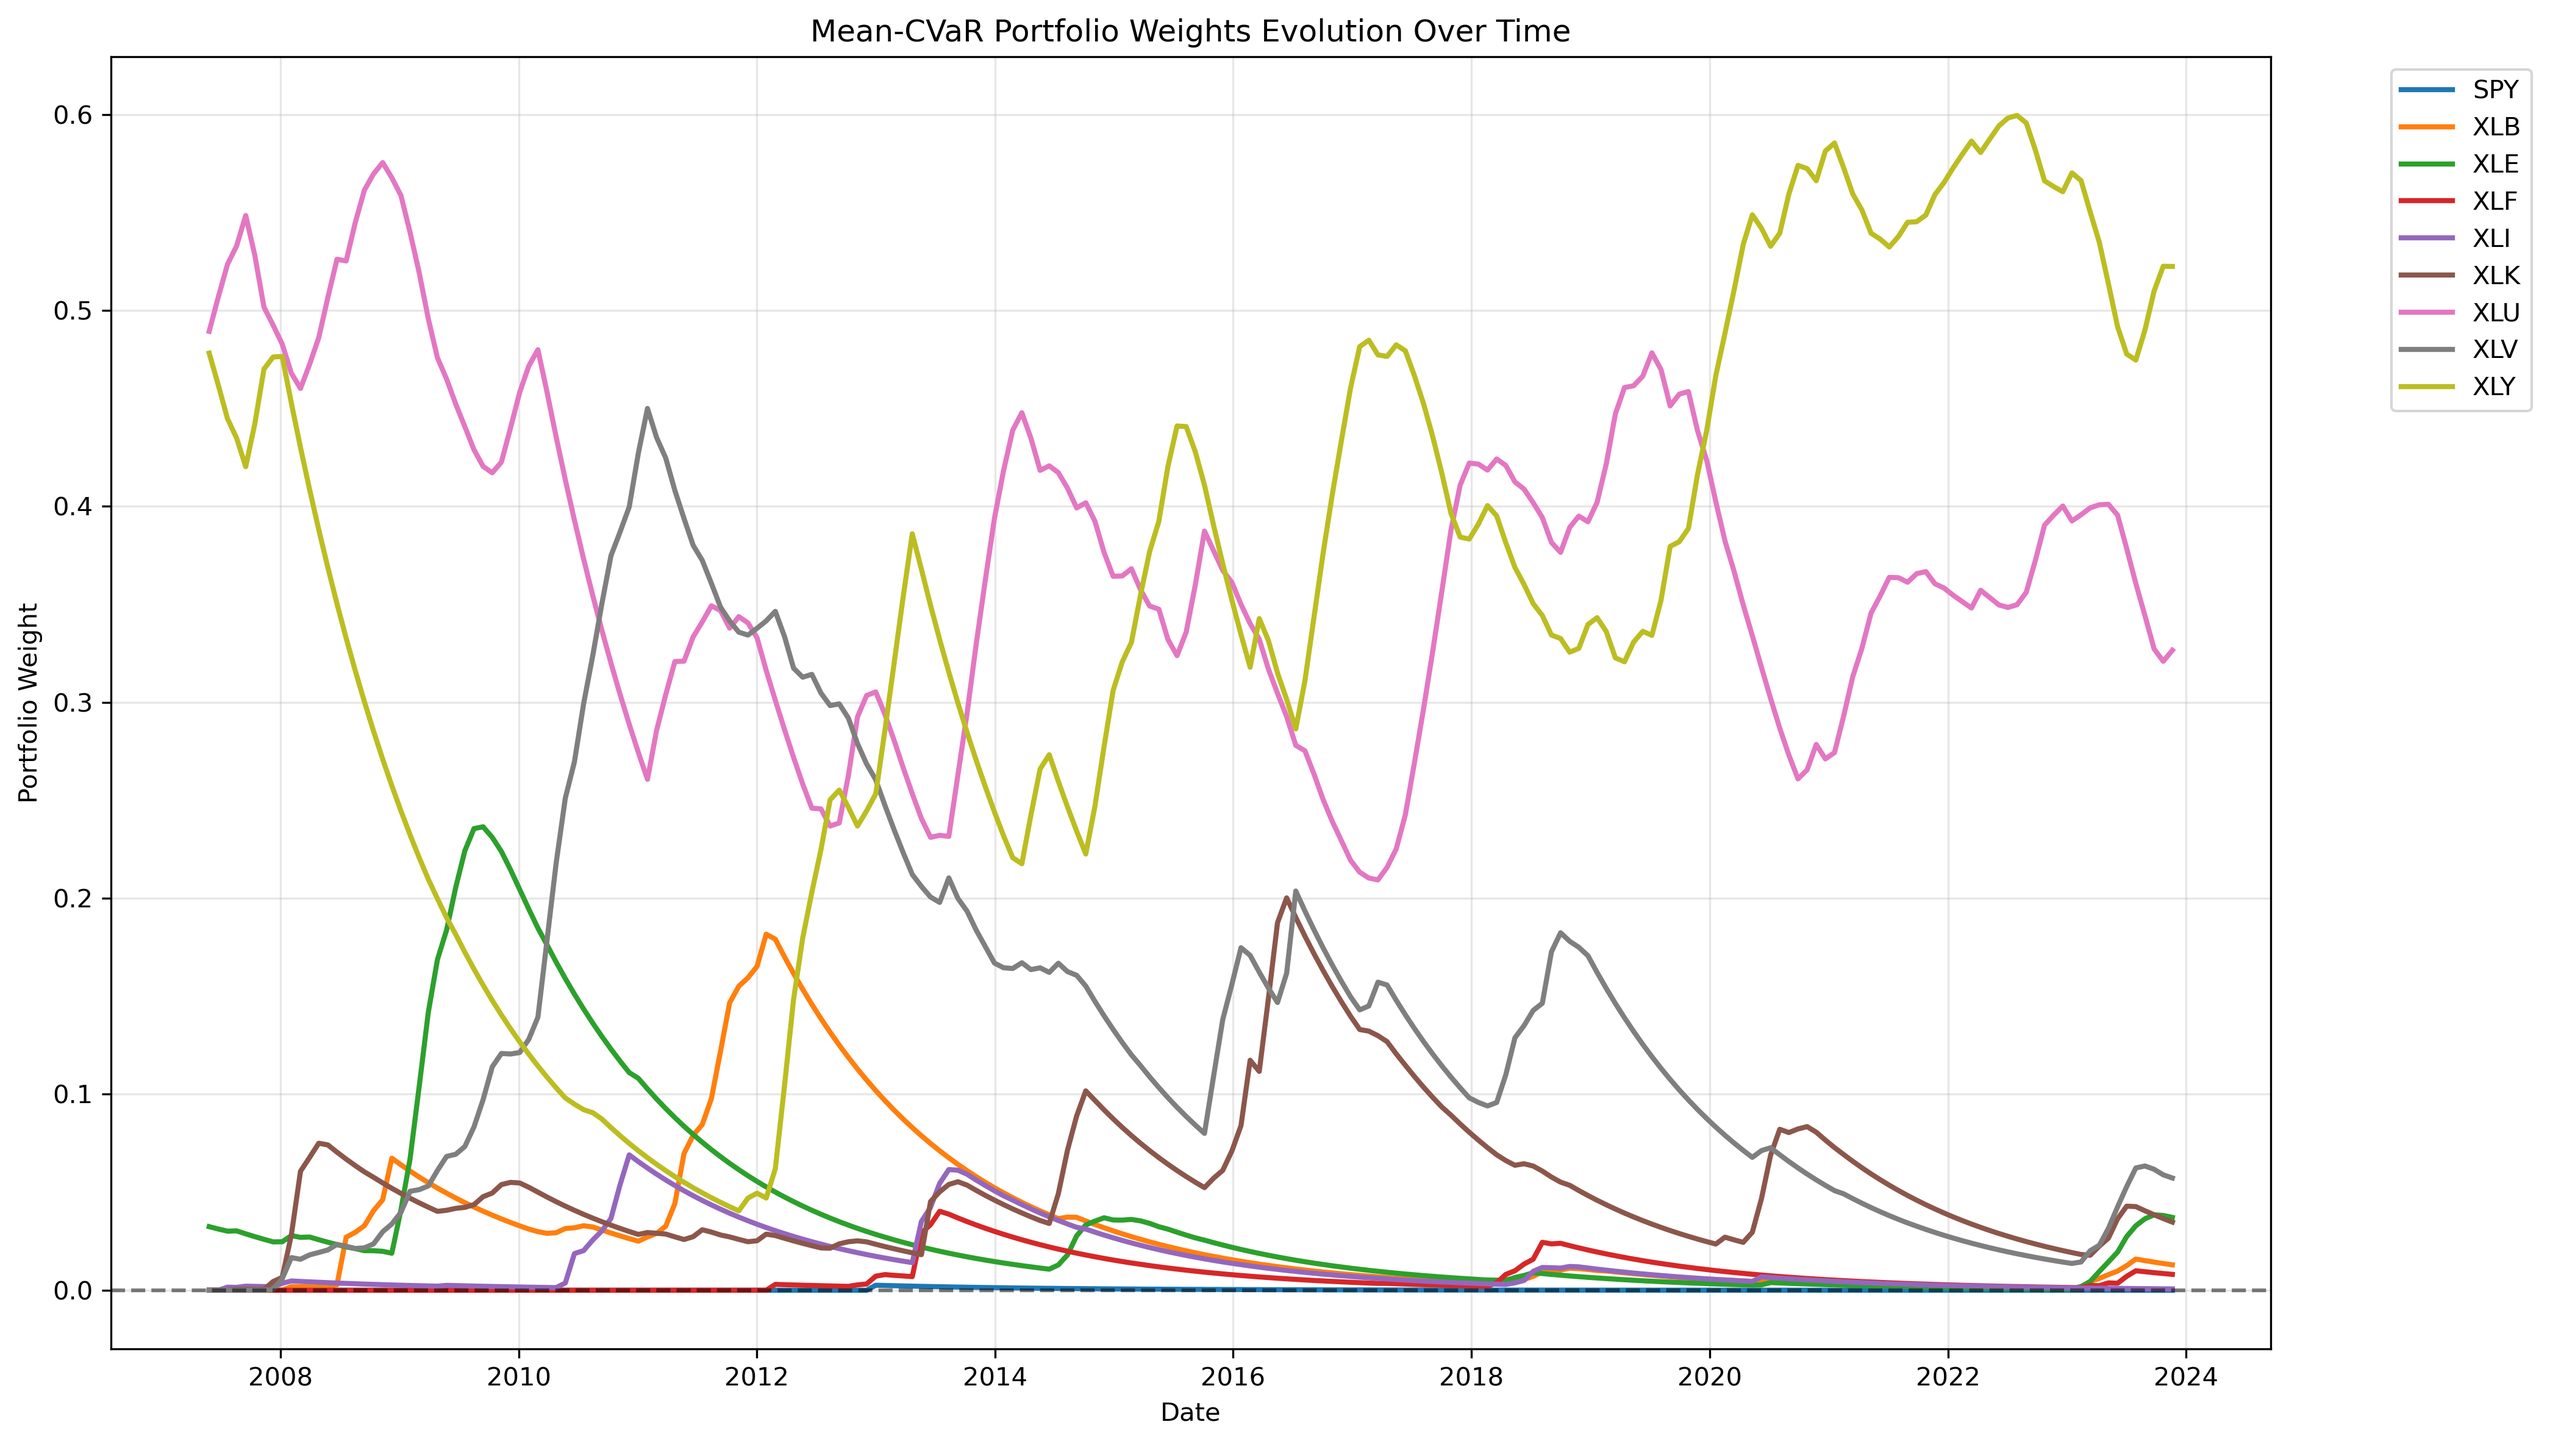
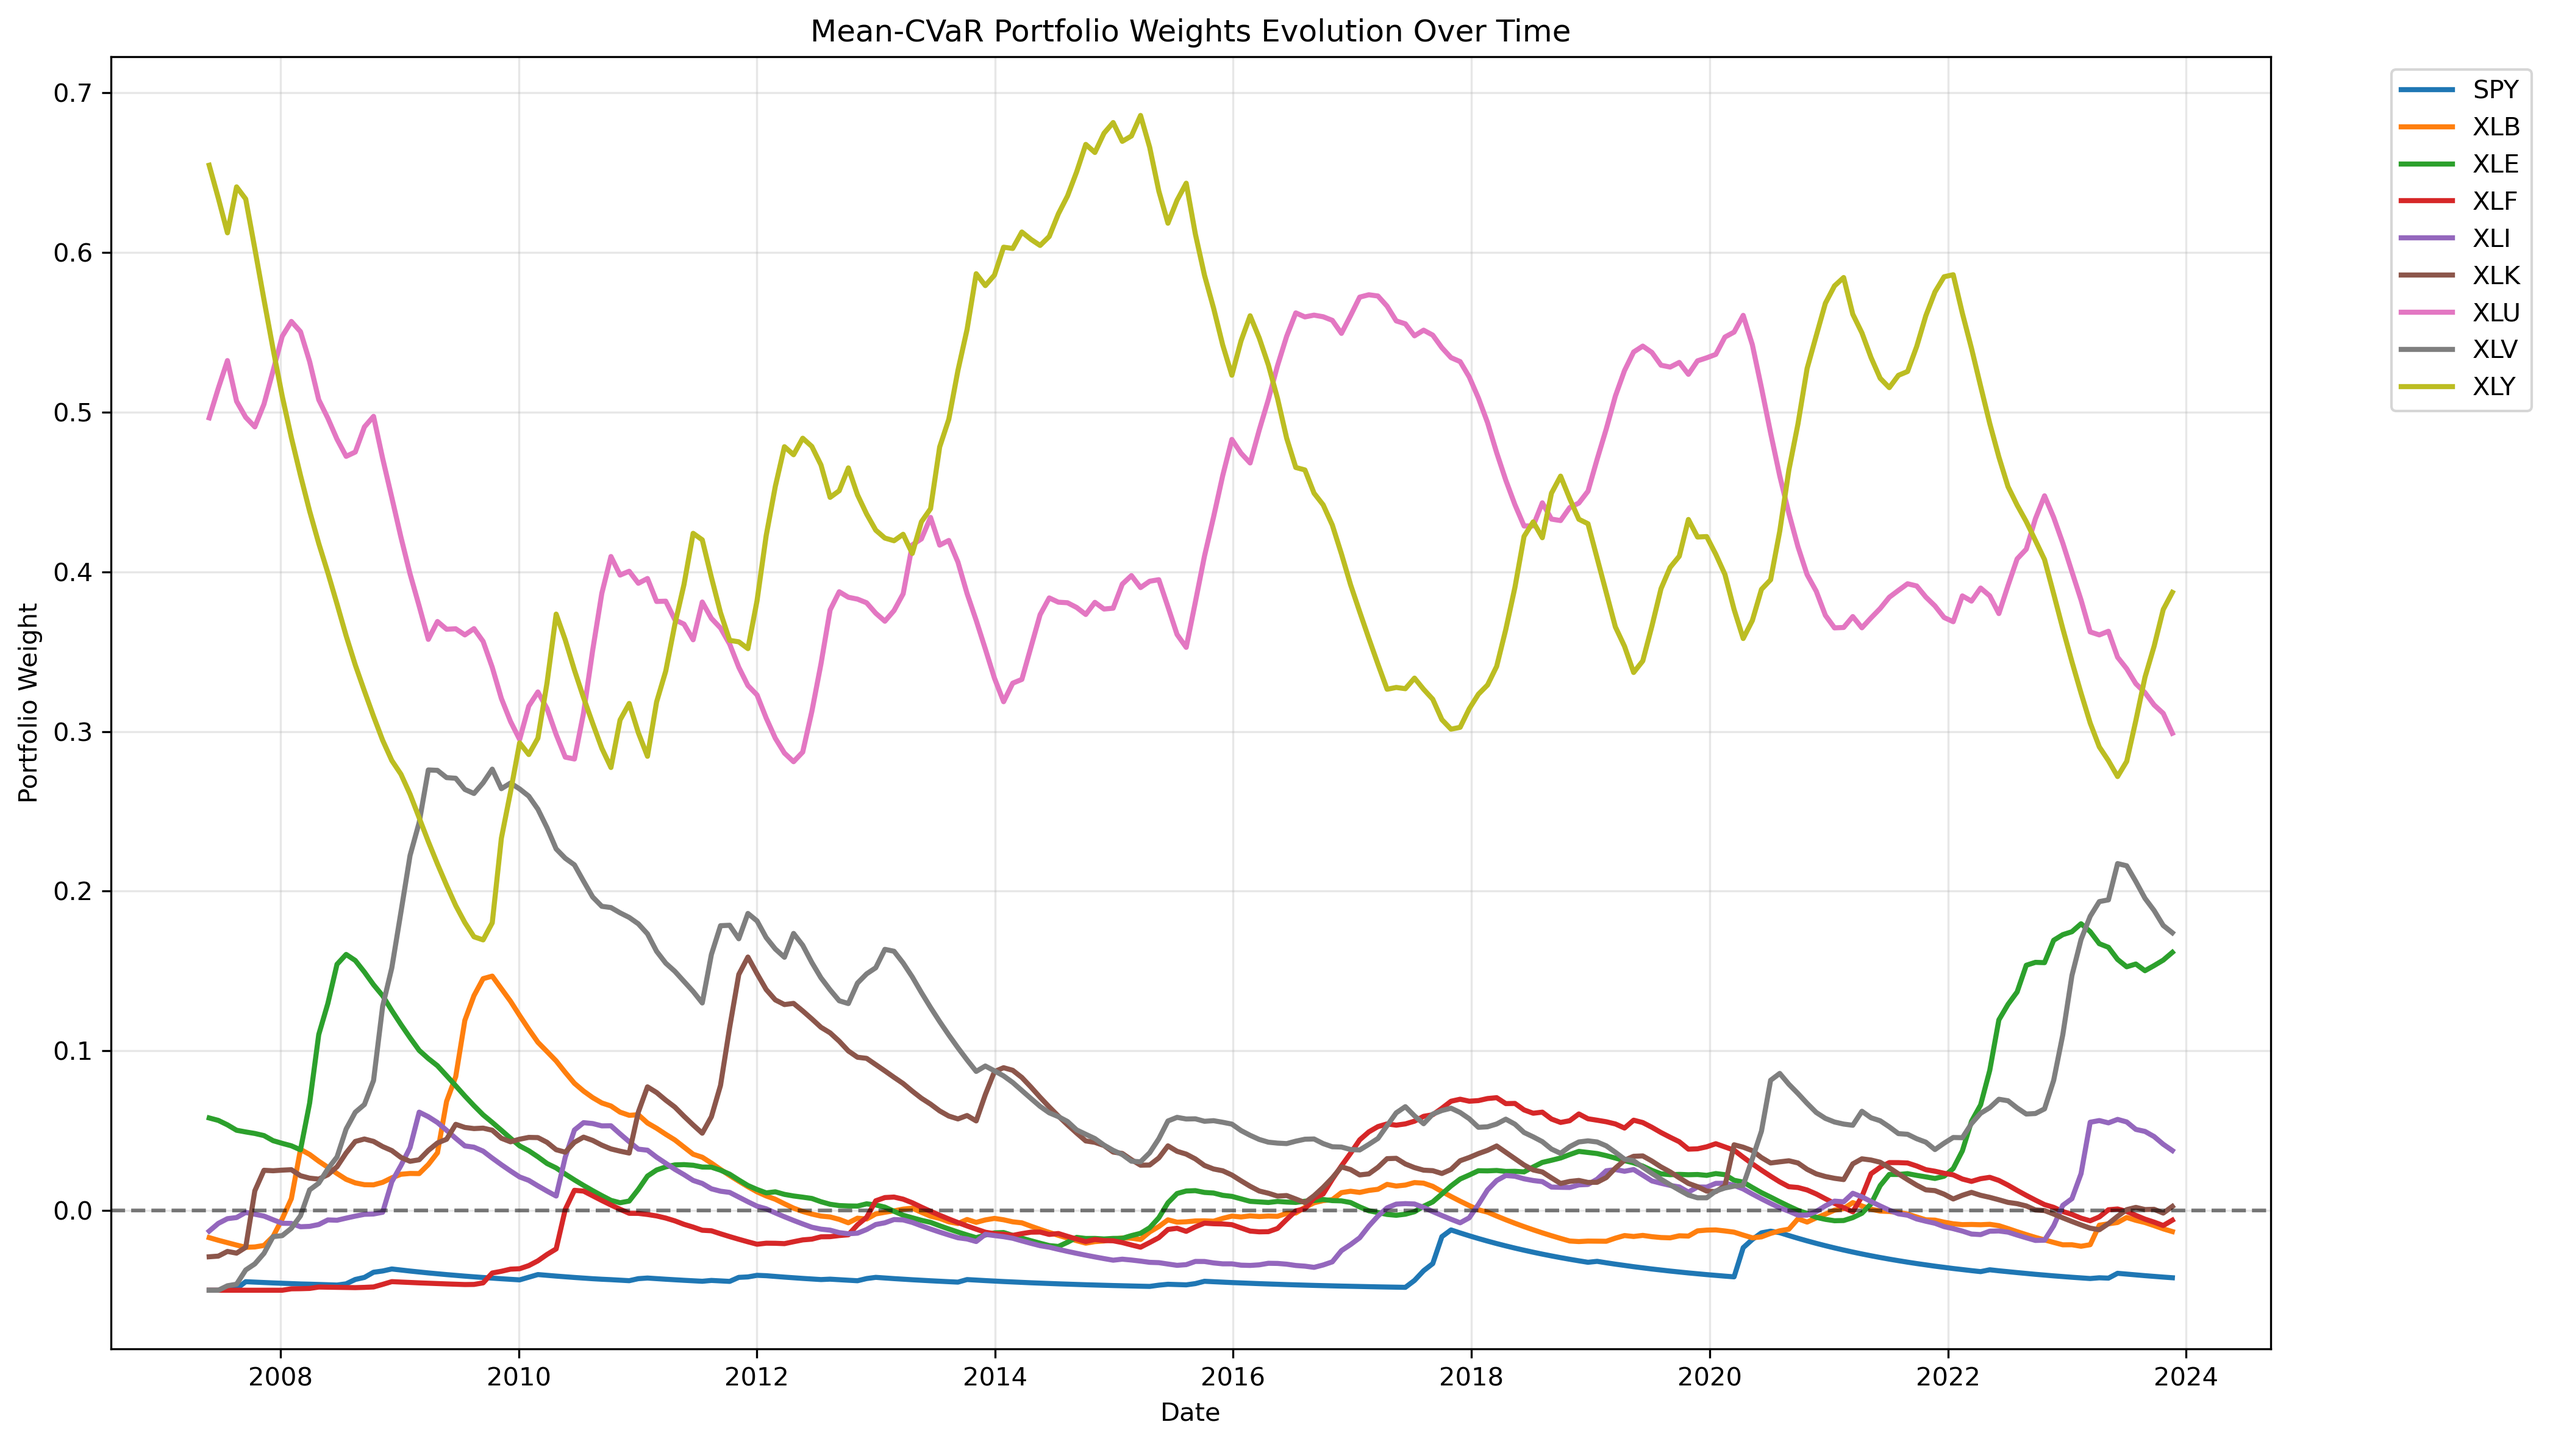
Introduced negative weight constraints

diff --git a/Backtesting/Backtesting.py b/Backtesting/Backtesting.py
@@ -259,34 +259,6 @@ class DSPBacktester(DSPOptimizer):
         self.total_wealth_spy = [] 
         self.pnl_history_spy = []
 
-    def run_backtest(self, start_idx=100, end_idx=None):
-        if end_idx is None:
-            end_idx = len(self.valid_dates) - self.rebalance_every  # leave space for forward return window
-
-        w_total = np.zeros(len(self.tickers))
-
-        for t in range(start_idx, end_idx, self.rebalance_every):
-            date_str = str(self.valid_dates[t])[:10]
-
-            # Compute optimal weights from simulated R
-            w_opt = self.solve(date_str=date_str)
-            w_new = w_opt[0]
-
-            # Update total positions
-            w_total = self.decay * w_total + w_new
-
-            # Compute return from observed market returns
-            R_forward = self.valid_returns[t+1:t+1+self.rebalance_every]
-            if len(R_forward) < self.rebalance_every:
-                break
-            pnl = R_forward @ w_total
-            cum_pnl = np.sum(pnl)
-
-            self.results[date_str] = w_opt
-            self.w_total_history.append(w_total.copy())
-            self.pnl_history.append(cum_pnl)
-            self.rebalance_dates.append(self.valid_dates[t])
-
     def compute_weights_on_date(self, date_idx):
         """
         Compute optimal weights for a given date index.
@@ -300,6 +272,34 @@ class DSPBacktester(DSPOptimizer):
         w_opt = self.solve(date_str=date_str)
 
         return (date_str, w_opt)
+    
+    # def run_backtest(self, start_idx=100, end_idx=None):
+    #     if end_idx is None:
+    #         end_idx = len(self.valid_dates) - self.rebalance_every  # leave space for forward return window
+
+    #     w_total = np.zeros(len(self.tickers))
+
+    #     for t in range(start_idx, end_idx, self.rebalance_every):
+    #         date_str = str(self.valid_dates[t])[:10]
+
+    #         # Compute optimal weights from simulated R
+    #         w_opt = self.solve(date_str=date_str)
+    #         w_new = w_opt[0]
+
+    #     # Update total positions
+    #     w_total = self.decay * w_total + w_new
+
+    #     # Compute return from observed market returns
+    #     R_forward = self.valid_returns[t+1:t+1+self.rebalance_every]
+    #     if len(R_forward) < self.rebalance_every:
+    #         break
+    #     pnl = R_forward @ w_total
+    #     cum_pnl = np.sum(pnl)
+
+    #     self.results[date_str] = w_opt
+    #     self.w_total_history.append(w_total.copy())
+    #     self.pnl_history.append(cum_pnl)
+    #     self.rebalance_dates.append(self.valid_dates[t])
 
     # def store_backtest_results(self, results, start_idx, end_idx, save_path=None):
     #     """ Store the results of the backtest run. """

diff --git a/Backtesting/analyze_performance.py b/Backtesting/analyze_performance.py
@@ -3,8 +3,8 @@ sys.path.append(os.path.abspath('.'))
 SAVE_DIR = os.path.join(os.path.dirname(__file__), 'Results')
 SAVE_DIR_DSP = os.path.join(SAVE_DIR, 'DSP')
 SAVE_DIR_MCVAR = os.path.join(SAVE_DIR, 'MCVAR')
-SAVE_PATH_DSP = os.path.join(SAVE_DIR, "backtest_results.npy")
-SAVE_PATH_MCVAR = os.path.join(SAVE_DIR, "backtest_results_MCVAR_0_4330_95.npy")
+SAVE_PATH_DSP = os.path.join(SAVE_DIR, "backtest_results_DSP_0_4330_75_Rebal20_5Short_160Gross.npy")
+SAVE_PATH_MCVAR = os.path.join(SAVE_DIR, "backtest_results_MCVAR_0_4330_95_Rebal20_5Short_160Gross.npy")
 os.makedirs(SAVE_DIR, exist_ok=True)
 os.makedirs(SAVE_DIR_DSP, exist_ok=True)
 os.makedirs(SAVE_DIR_MCVAR, exist_ok=True)
@@ -14,11 +14,10 @@ from Backtesting import DSPBacktester, MeanCVaRBacktester, Backtester
 import matplotlib.pyplot as plt
 
 # Set parameters
-Backtester_class = "MCVAR"  # or "DSP"
 tickers = ['spy', 'xlb', 'xle', 'xlf', 'xli', 'xlk', 'xlu', 'xlv', 'xly']
 J = 10000
 df = 6
-rebalance_every = 20  # daily for test
+rebalance_every = 20  # day for test
 decay = 0.95
 n_days = int(1*252)  # n years of trading days (252 days/year * n years)
 k0 = range(0, 4330-n_days, 252)

diff --git a/Optimizers/DSP/dsp_solver.py b/Optimizers/DSP/dsp_solver.py
@@ -48,9 +48,9 @@ class DSPOptimizer(JointReturnSimulator):
         constraints = [
             cp.sum(self.z) / self.J == 1,
             self.z >= 0, 
-            cp.sum(self.p) == 1, 
-            self.p >= 0                   # Budget constraint
-            # cp.sum(cp.abs(self.p)) <= 2.0         # Max 200% gross exposure
+            cp.sum(self.p) == 1,                    # Budget constraint (net 100% invested)
+            self.p >= -0.05,                        # Max 5% short per position (institutional limit)
+            cp.sum(cp.abs(self.p)) <= 1.6           # 160% gross exposure (130/30 strategy)
         ]
         for ak, phik in zip(self.a, self.Phi):
             constraints.append(cp.sum(cp.pos(self.z - ak)) / self.J <= phik)

diff --git a/Optimizers/MeanCVaR/mean_CVaR_solver.py b/Optimizers/MeanCVaR/mean_CVaR_solver.py
@@ -33,7 +33,8 @@ class MeanCVaROptimizer(JointReturnSimulator):
         portfolio_loss = -R @ w
         constraints = [
             cp.sum(w) == 1,
-            w >= 0,
+            w >= -0.05,  # Max 5% short per position (institutional limit)
+            cp.sum(cp.abs(w)) <= 1.6,  # 160% gross exposure (130/30 strategy)
             z >= portfolio_loss - eta,
             z >= 0,
         ]
